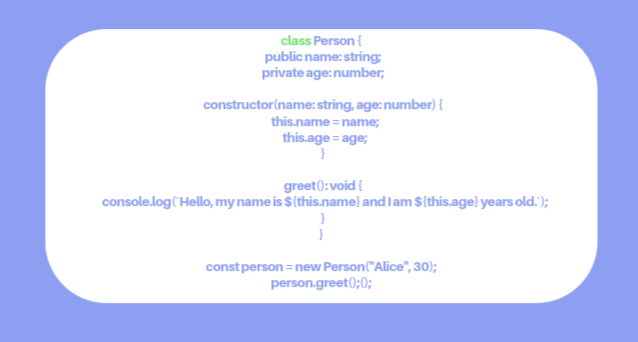
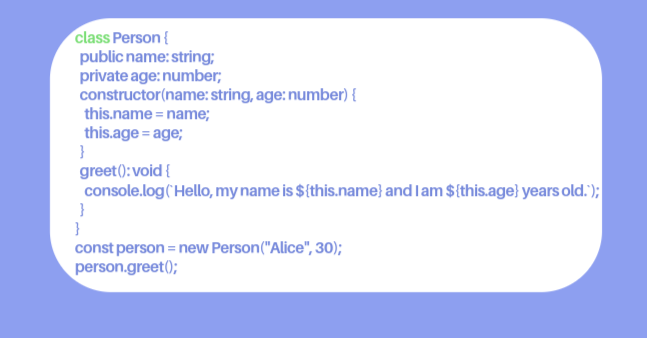
images aligned

Changed region(s): [[0.0596, 0.2071, 0.953, 0.8876], [0.0893, 0.0296, 0.9232, 0.4438], [0.0596, 0.1479, 0.0893, 0.1775]]

diff --git a/My-App/src/src/app/components/Game.tsx b/My-App/src/src/app/components/Game.tsx
@@ -14,56 +14,56 @@ export default function Game() {
       title: "Lesson 1: Introduction to Static Typing",
       content:
         "In TypeScript, static typing means that the type of a variable is checked before the program runs. This helps find mistakes early and makes the code easier to understand. TypeScript has three ways to define types: explicit typing (where you set the type yourself), implicit typing (where TypeScript guesses the type based on the value), and `any` (which lets you avoid strict types for flexibility).",
-      exampleTitle: "Example of Explicit Typing",
-      example:
-        'let age: number = 25; age = 30; // ✅ Valid let age: number = 25; age = "twenty-five"; // ❌ Error! TypeScript catches this mistake',
+      exampleTitle: "Examples of Explicit Typing",
+      examples: [
+        "let age: number = 25; age = 30; // ✅ Valid",
+        'let age: number = 25; age = "twenty-five"; // ❌ Error! TypeScript catches this mistake',
+      ],
     },
     {
       title: "Lesson 2: Interfaces in TypeScript",
       content:
         "Interfaces let you define what kind of object you're working with. They help make sure your objects have the right properties and types. You can also extend or use interfaces to keep your code clean and organized.",
-      exampleTitle: "Interface Example",
-      example: `interface Person {
-    name: string;
-    age: number;
-  }
-  
-  const user: Person = {
-    name: "Alice",
-    age: 25
-  }; // ✅ This works!`,
+      exampleTitle: "Interface Examples",
+      examples: [
+        `interface Person { name: string; age: number;}`,
+        ` const user: Person = { name: "Alice", age: 25 }; // ✅ This works!`,
+      ],
     },
     {
       title: "Lesson 3: Classes in TypeScript",
       content:
         "Classes in TypeScript are like templates for creating objects. You can add properties (like `name` and `age`) and methods (functions that belong to the object). TypeScript adds types to make sure your properties and methods are used correctly.",
-      exampleTitle: "Class Example",
-      example: `class Person {
-    name: string;
-    age: number;
-  
-    constructor(name: string, age: number) {
-      this.name = name;
-      this.age = age;
-    }
-  
-    greet() {
-      return \`Hello, my name is \${this.name} and I am \${this.age} years old.\`;
-  }
-  
-  const person = new Person("Alice", 30);
-  console.log(person.greet()); // ✅ "Hello, my name is Alice and I am 30 years old."`,
+      exampleTitle: "Class Examples",
+      examples: [
+        `class Person { 
+          name: string; 
+          age: number; 
+          
+          constructor(name: string, age: number) { 
+            this.name = name; 
+            this.age = age; 
+          } 
+          
+          greet() { 
+            return \`Hello, my name is \${this.name} and I am \${this.age} years old.\`; 
+          } 
+        }`,
+        `const person = new Person("Alice", 30);`,
+        `console.log(person.greet()); // ✅ "Hello, my name is Alice and I am 30 years old."`,
+      ],
     },
     {
       title: "Lesson 4: Type Aliases in TypeScript",
       content:
         "Type aliases let you create a new name for a type. You can use type aliases for simple types, objects, or even combinations of types. They make your code easier to read and use.",
-      exampleTitle: "Type Alias Example",
-      example: `type ID = string | number;
-  
-  const userID: ID = 123; // ✅ Valid
-  const productID: ID = "abc"; // ✅ Valid
-  const invalidID: ID = true; // ❌ Error!`,
+      exampleTitle: "Type Alias Examples",
+      examples: [
+        `type ID = string | number;`,
+        `const userID: ID = 123; // ✅ Valid`,
+        `const productID: ID = "abc"; // ✅ Valid`,
+        `const invalidID: ID = true; // ❌ Error!`,
+      ],
     },
   ];
 
@@ -89,25 +89,25 @@ export default function Game() {
 
   return (
     <div className="game-container">
-      <h1 className="game-title">Matching Game</h1>
+      
       <div className="lesson-container">
         <h2>{currentLesson.title}</h2>
         <p>{currentLesson.content}</p>
         <p><strong>{currentLesson.exampleTitle}</strong></p>
-        <p className="example">{currentLesson.example}</p>
+        <p className="example">{currentLesson.examples}</p>
         <p>
           Round {currentRound + 1} / {matchingPairs.length}
         </p>
       </div>
 
       <div className="example">
-        <Image className="question-image" src={currentPair.question} alt="JavaScript Element" width={650} height={350}  quality={85} />
+        <Image className="question-image" src={currentPair.question} alt="JavaScript Element" width={700} height={400}  quality={85} />
       </div>
 
       <div className="options-container">
         {currentPair.options.map((option, index) => (
           <button key={index} className="option-button" onClick={() => handleChoice(option)}>
-            <Image src={option} alt={`Option ${index + 1}`} width={600} height={300} quality={85}/>
+            <Image src={option} alt={`Option ${index + 1}`} width={650} height={350} quality={85}/>
           </button>
         ))}
       </div>

diff --git a/My-App/src/src/app/globals.css b/My-App/src/src/app/globals.css
@@ -27,6 +27,7 @@ h1 {
   font-size: 50px;
   text-align: center;
   padding: 2%;
+  box-shadow: 0 4px 10px rgba(0, 0, 0, 0.1);
 }
 .container {
   max-width: 1000px; /* Slightly wider for better readability */
@@ -42,10 +43,11 @@ section {
   background: white; /* Solid white for contrast */
   padding: 15px;
   margin: 20px 0; /* Space between sections */
-  border: 8px solid #7bde76; /* Green left border */
+  border: 8px solid #ceffcc; /* Green left border */
   border-radius: 12px; /* Curved edges */
   box-shadow: 0 2px 8px rgba(0, 0, 0, 0.1); /* Light shadow for depth */
 }
+
 
 .game-container {
   font-family: "Space Mono", serif;
@@ -70,16 +72,18 @@ section {
   padding: 20px;
   background: rgba(255, 255, 255, 0.1);
   border-radius: 20px;
-  border: 4px solid #7bde76;
+  border: 4px solid #c9f5c7;;
   box-shadow: 0 4px 10px rgba(0, 0, 0, 0.2);
   text-align: center;
 }
 
 .question-image {
-  max-width: 700px; /* Make the question image smaller */
+  /* max-width: 700px; Make the question image smaller */
   height: auto;
   margin: 20px auto;
   display: block;
+ 
+
 }
 
 .options-container {
@@ -124,7 +128,7 @@ section {
   background: white; /* Solid white for contrast */
   padding: 25px;
   margin: 20px 0; /* Space between sections */
-  border: 8px solid #7bde76; /* Green left border */
+  border: 8px solid  #ceffcc; /* Green left border */
   border-radius: 12px; /* Curved edges */
   box-shadow: 0 2px 8px rgba(0, 0, 0, 0.1);
   font-size: 30px;
